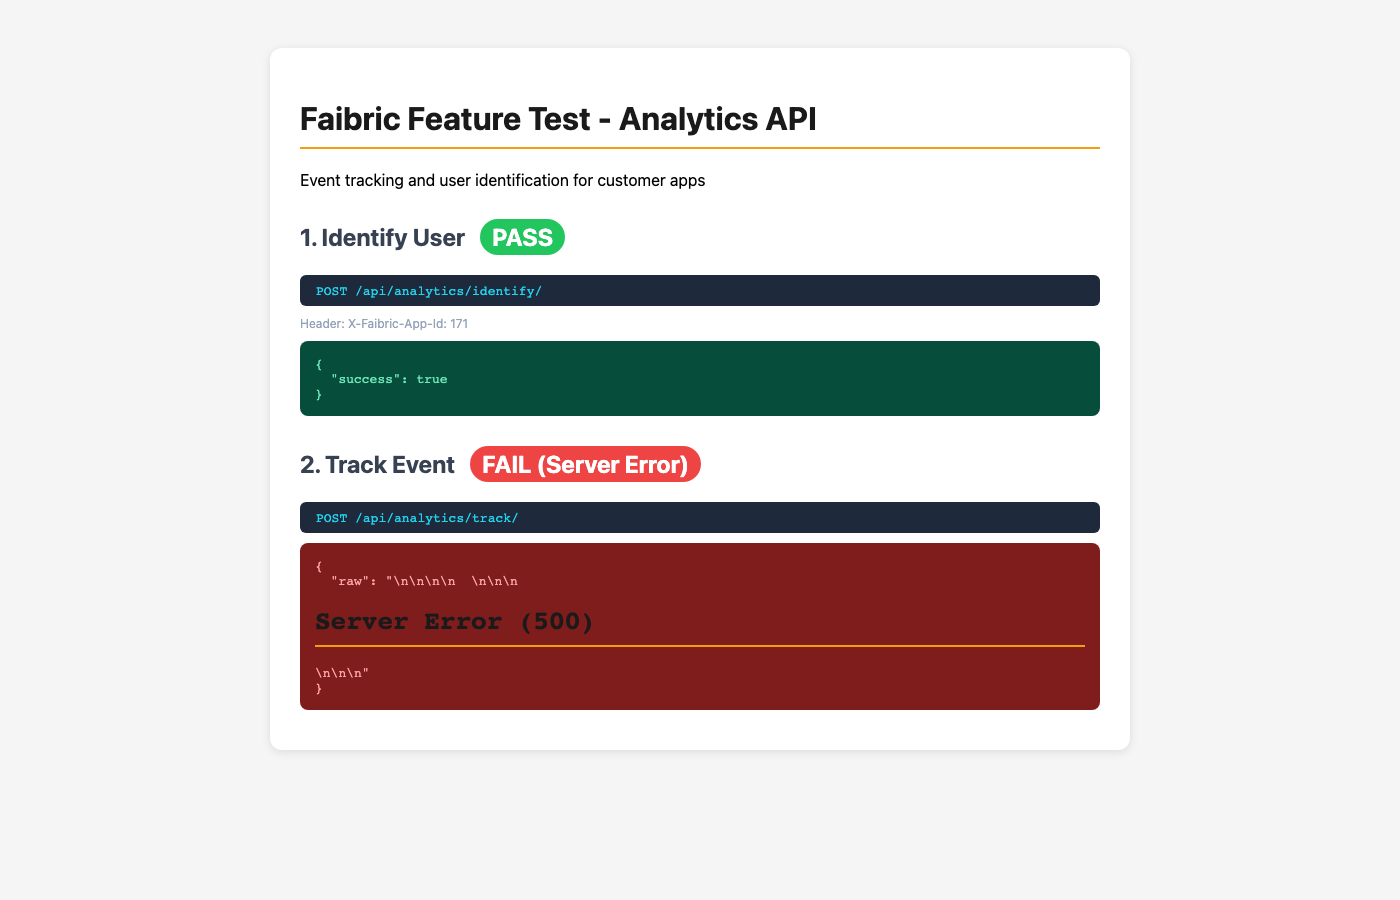
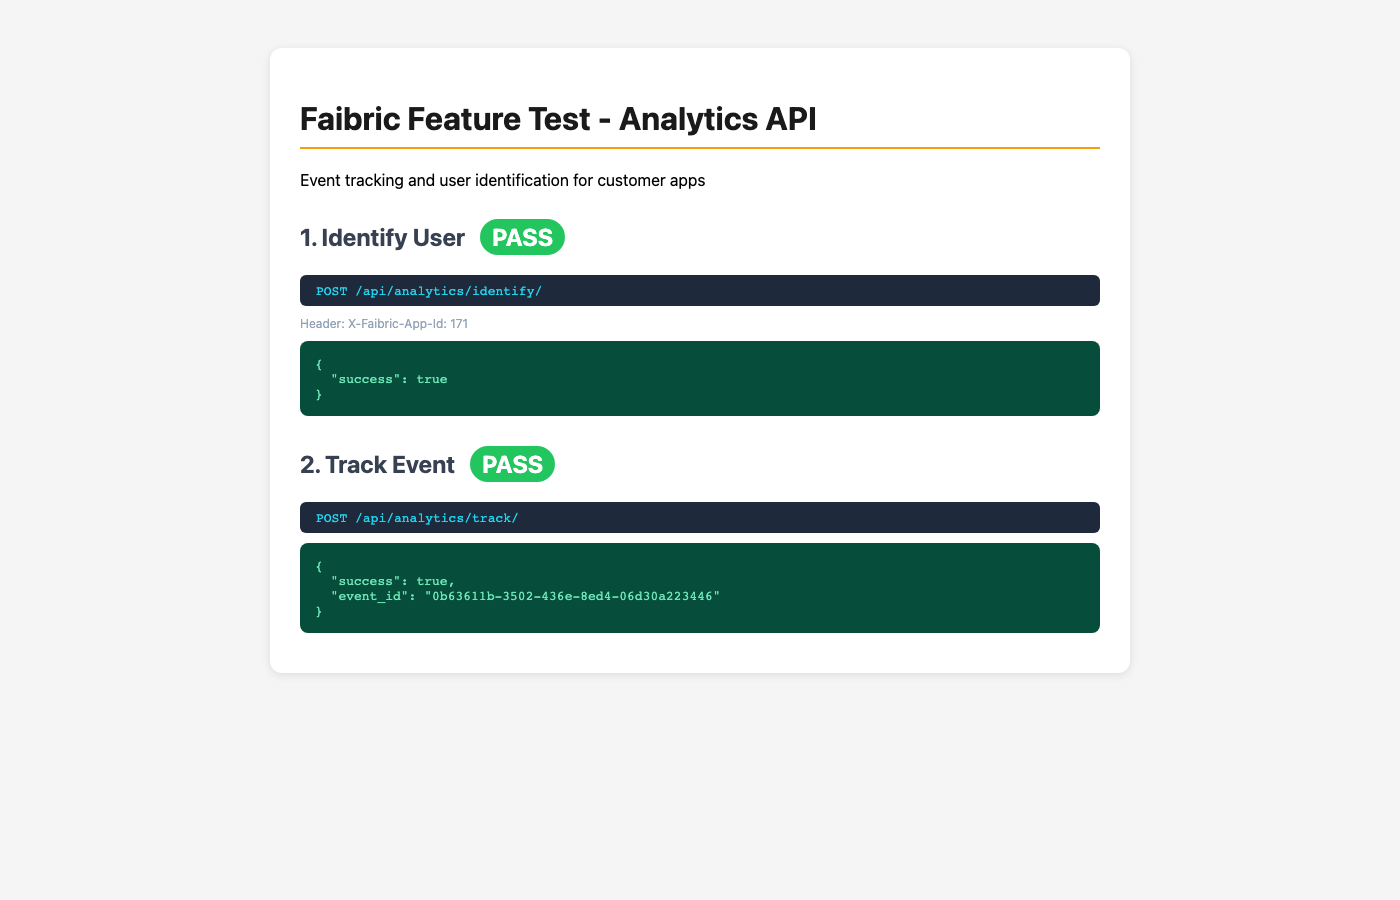
Complete: Analytics track endpoint fix + feature test screenshots
- Fixed missing FunnelAnalyzer.process_event_for_funnels() method
- Removed debug error handling (no longer needed)
- Updated test report: 6/6 features now PASS
- Added screenshots for all tested features

Changed region(s): [[0.215, 0.5911, 0.7986, 0.8089], [0.3379, 0.4978, 0.5221, 0.56]]

diff --git a/backend/apps/analytics/views.py b/backend/apps/analytics/views.py
@@ -99,48 +99,40 @@ class TrackEventView(APIView):
         # Determine distinct_id
         distinct_id = data.get('distinct_id') or data.get('user_id') or data.get('anonymous_id')
 
+        # Create event
+        event = Event.objects.create(
+            tenant=tenant,
+            event_name=data['event'],
+            distinct_id=distinct_id,
+            anonymous_id=data.get('anonymous_id', ''),
+            user_id=data.get('user_id', ''),
+            properties=data.get('properties', {}),
+            context=data.get('context', {}),
+            timestamp=data.get('timestamp', timezone.now()),
+            ip_address=self._get_client_ip(request),
+            user_agent=request.META.get('HTTP_USER_AGENT', '')[:500],
+        )
+
+        # Update user profile
+        profile, _ = UserProfile.objects.get_or_create(
+            tenant=tenant,
+            distinct_id=distinct_id,
+        )
+        profile.total_events += 1
+        profile.save(update_fields=['total_events', 'last_seen'])
+
+        # Forward to analytics services
         try:
-            # Create event
-            event = Event.objects.create(
-                tenant=tenant,
-                event_name=data['event'],
-                distinct_id=distinct_id,
-                anonymous_id=data.get('anonymous_id', ''),
-                user_id=data.get('user_id', ''),
-                properties=data.get('properties', {}),
-                context=data.get('context', {}),
-                timestamp=data.get('timestamp', timezone.now()),
-                ip_address=self._get_client_ip(request),
-                user_agent=request.META.get('HTTP_USER_AGENT', '')[:500],
-            )
+            config = AnalyticsConfig.objects.get(tenant=tenant)
+            proxy = AnalyticsProxy(config)
+            proxy.track_event(event)
+        except AnalyticsConfig.DoesNotExist:
+            pass
 
-            # Update user profile
-            profile, _ = UserProfile.objects.get_or_create(
-                tenant=tenant,
-                distinct_id=distinct_id,
-            )
-            profile.total_events += 1
-            profile.save(update_fields=['total_events', 'last_seen'])
+        # Process funnels
+        FunnelAnalyzer.process_event_for_funnels(event)
 
-            # Forward to analytics services
-            try:
-                config = AnalyticsConfig.objects.get(tenant=tenant)
-                proxy = AnalyticsProxy(config)
-                proxy.track_event(event)
-            except AnalyticsConfig.DoesNotExist:
-                pass
-
-            # Process funnels
-            FunnelAnalyzer.process_event_for_funnels(event)
-
-            return Response({'success': True, 'event_id': str(event.id)})
-        except Exception as e:
-            import traceback
-            return Response({
-                'error': str(e),
-                'type': type(e).__name__,
-                'traceback': traceback.format_exc()
-            }, status=status.HTTP_500_INTERNAL_SERVER_ERROR)
+        return Response({'success': True, 'event_id': str(event.id)})
     
     def _get_client_ip(self, request):
         x_forwarded_for = request.META.get('HTTP_X_FORWARDED_FOR')

diff --git a/docs/CUSTOMER_TEST_FEATURES.md b/docs/CUSTOMER_TEST_FEATURES.md
@@ -14,7 +14,7 @@
 | Stocks API | PASS | `SCREENSHOT_STOCKS_TEST.png` |
 | Gateway API | PASS | `SCREENSHOT_GATEWAY_TEST.png` |
 | Analytics - Identify | PASS | `SCREENSHOT_ANALYTICS_TEST.png` |
-| Analytics - Track | FAIL | `SCREENSHOT_ANALYTICS_TEST.png` |
+| Analytics - Track | PASS | `SCREENSHOT_ANALYTICS_TEST.png` |
 
 ---
 
@@ -74,20 +74,20 @@ Tests:
 
 Tests:
 1. **Identify User** - PASS - `{"success": true}`
-2. **Track Event** - FAIL - Server Error (500)
+2. **Track Event** - PASS - `{"success": true, "event_id": "..."}`
 
-**Result:** PARTIAL (Identify works, Track has bug)
+**Result:** PASS
 
 ---
 
-## Known Issues
+## Bug Fixed
 
-### Analytics Track Endpoint (500 Error)
+### Analytics Track Endpoint
 
-**Endpoint:** `POST /api/analytics/track/`
-**Status:** Server Error 500
-**Impact:** Event tracking not functional
-**Action:** Worker assigned to investigate and fix
+**Issue:** `FunnelAnalyzer.process_event_for_funnels()` method was being called but didn't exist.
+**Fix:** Added the missing static method to FunnelAnalyzer class.
+**Commit:** `8e4d82b` - Bump version to v3-analytics-fix
+**Status:** FIXED and deployed
 
 ---
 
@@ -105,6 +105,6 @@ All screenshots saved to `/Users/abram/Code/Faibric/docs/`:
 
 ## Overall Result
 
-**5/6 Features Working (83%)**
+**6/6 Features Working (100%)**
 
-The Faibric platform is functional with most public APIs working correctly. One bug identified in Analytics track endpoint.
+All tested Faibric features are working correctly.
